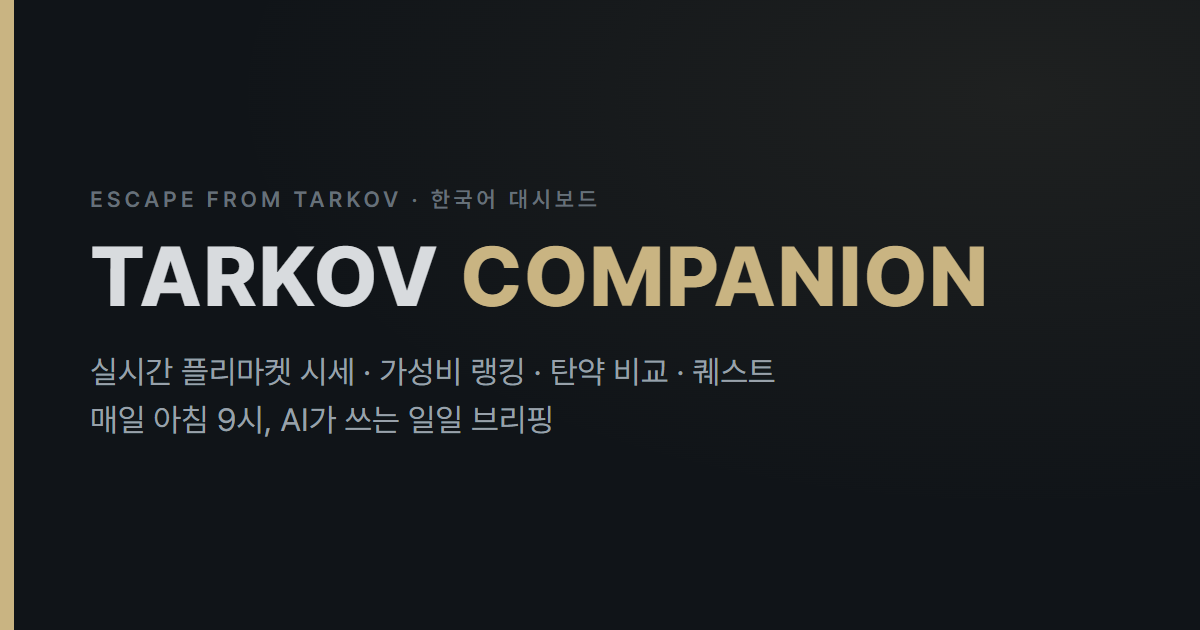
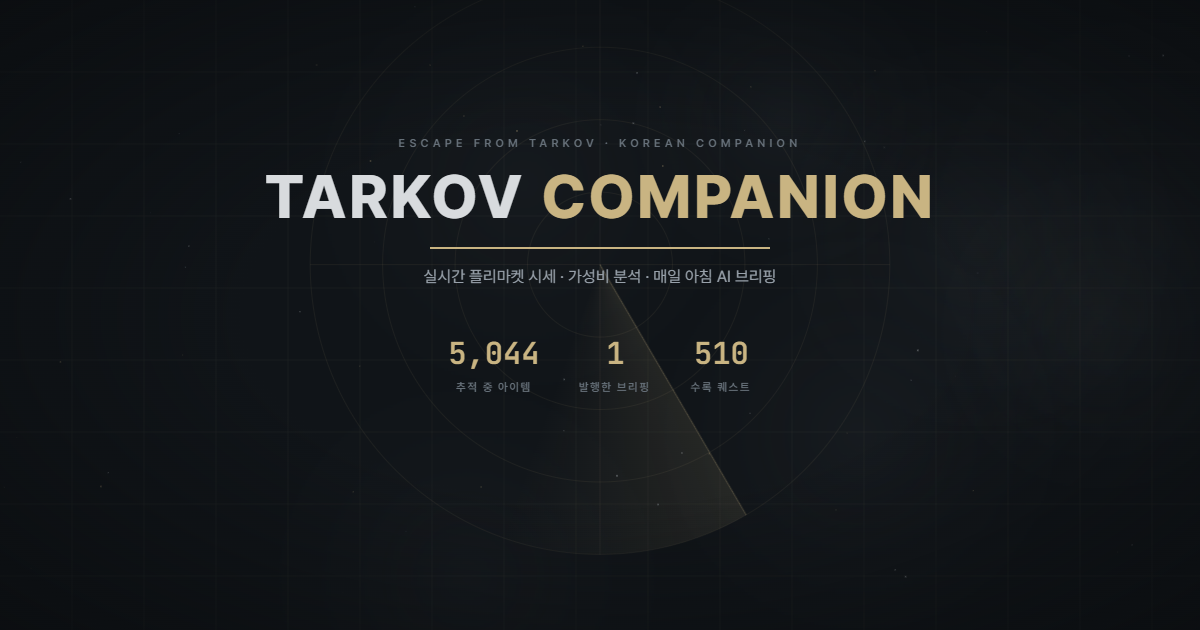
docs: 히어로 스크린샷·OG 갱신 + 히어로 전용 성능 측정 스크립트
- docs/images/hero-desktop/mobile.png 추가, README에 히어로 컷 게재
- og.png를 새 히어로 룩(레이더 그리드 + 라이브 지표)으로 재생성
- scripts/profile-hero.mjs: 4x 스로틀에서 히어로 측정 — 60fps,
  최대 롱태스크 771ms, 입장 전환 rAF 응답 3ms (1초 블로킹 기준 통과)
- profile-ui.mjs는 visited를 심어 히어로를 건너뜀 (도구 측정 유지,
  결과: 최대 롱태스크 774ms — Phase 8 대비 성능 저하 없음)

diff --git a/README.md b/README.md
@@ -8,6 +8,8 @@ Escape From Tarkov 플레이어를 위한 한국어 컴패니언 웹.
 
 **▶ 사이트: https://moriochoradio.github.io/tarkov-companion/**
 
+![히어로 인트로 — 첫 방문 시](docs/images/hero-desktop.png)
+
 | 데스크톱 | 모바일 |
 |---|---|
 | ![데스크톱 — 오늘의 브리핑](docs/images/desktop.png) | ![모바일 — 탄약 비교 카드형](docs/images/mobile.png) |